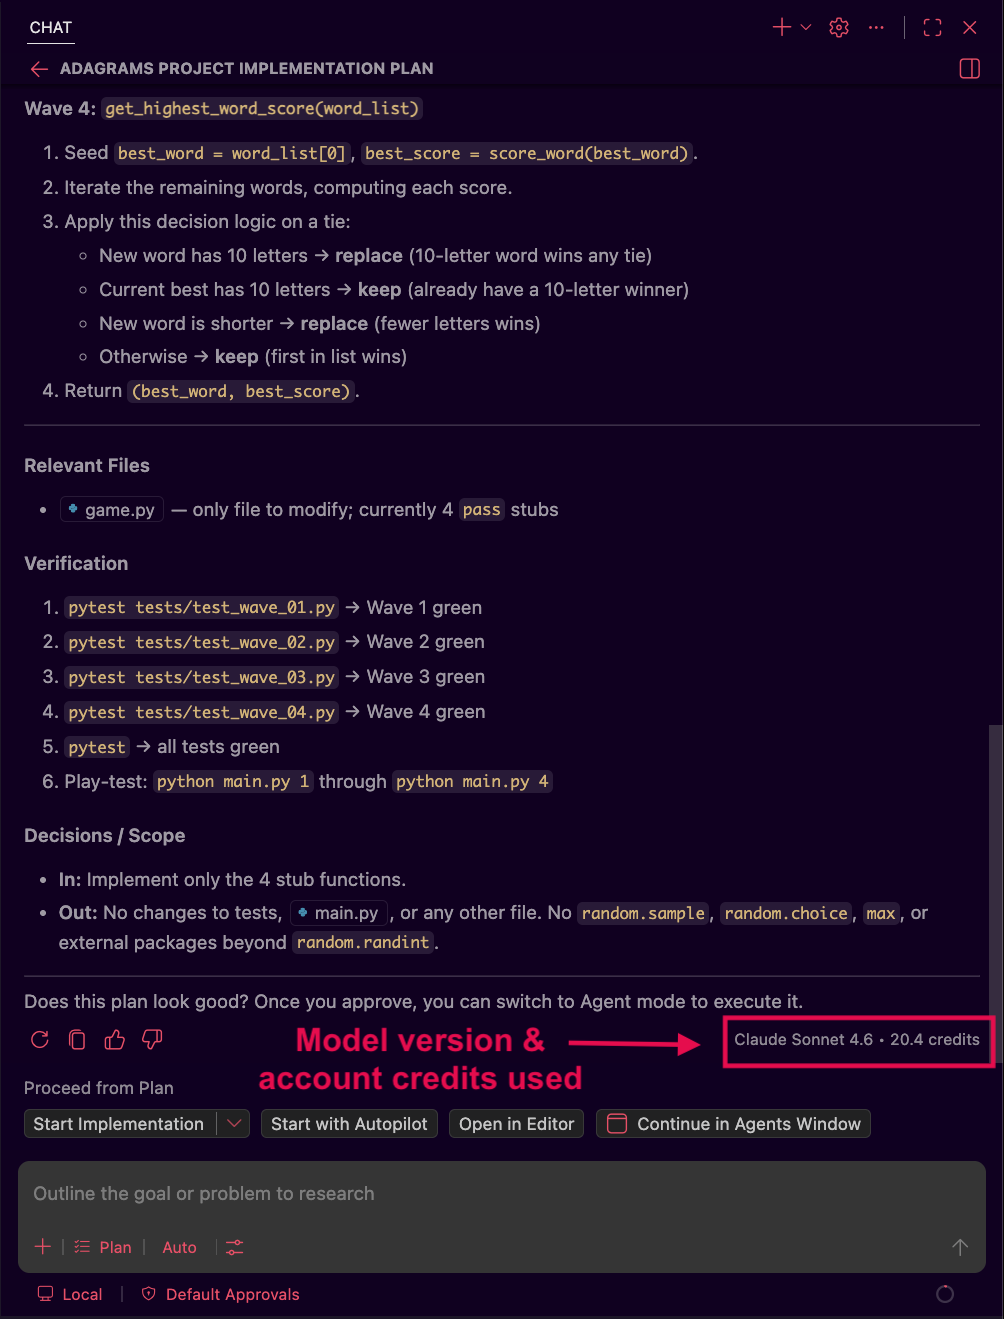
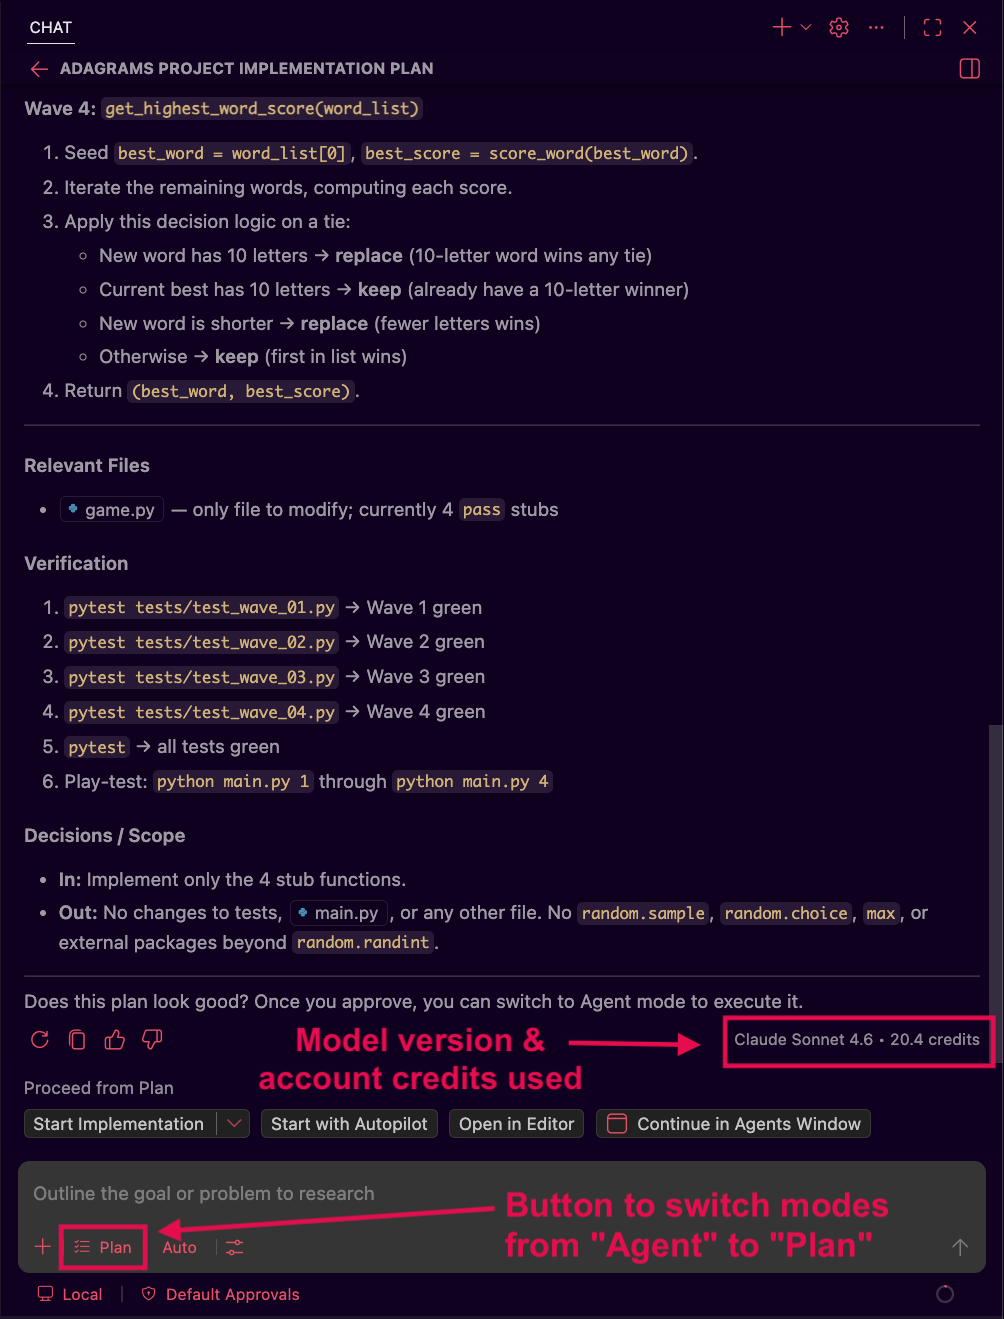
Address PR feedback to add clarifications and explicit human review in the example

Changed region(s): [[0.0309, 0.9014, 0.8954, 0.9636]]

diff --git a/agentic-coding/context-windows.md b/agentic-coding/context-windows.md
@@ -94,7 +94,9 @@ Most systems begin automatic compaction somewhere around 80–95% of the window'
 
 ### Context Window Usage Example
 
-How does this context usage look in a standard workflow? Let's say that we want to use Copilot AI agents in VS Code to help us complete the [Adagrams project](https://github.com/AdaGold/adagrams-py). If we open up the code locally, start off a new agent session in planning mode, then send a prompt like:
+How does this context usage look in a standard workflow? Let's look at a familiar example before trying it out ourselves: say that we want to use Copilot AI agents in VS Code to help us complete the [Adagrams project](https://github.com/AdaGold/adagrams-py). 
+
+The first thing we'll do is open up the code locally, start a new agent session, and set the session to planning mode using the mode switcher at the bottom of the chat text box (see the "mode" button highlighted in the image below). If we then send a prompt like:
 
 > Help me create a structured approach to complete the Adagrams project. The requirements are outlined in 'README.md'. Only the file 'adagrams/game.py' is allowed to be changed to complete this project. 'adagrams/game.py' contains 4 function definitions that need to be fully implemented. These functions must pass the tests located in the 'tests' folder. The functions should follow PEP8 best practices for Python. Only the packages in the file 'requirements.txt' are allowed to be used for this project.
 
@@ -111,7 +113,9 @@ If we click on the session usage tracker at the bottom of the screen, we can see
 
 The model used for this planning session has a 1 million token context window size. The single request and response combined used up 21.9 thousand tokens of that total 1 million limit, and that's without any back and forth, no asking for explanation, requesting changes, etc. 
 
-If we use the "Start Implementation" button shown at the bottom of the chat window screenshot above, it will open a new agent session to begin implementing the outlined plan. In our run through, the implementation was started using a different model from planning, `GPT-5.3-Codex` which has a 400,000 token limit for its context window. After the initial implementation, we asked for 3 changes:
+Once we have reviewed and approved the plan, we can press the "Start Implementation" button shown at the bottom of the chat window screenshot above, it will open a new agent session to begin implementing the outlined plan. In our run through, the implementation was started using a different model from planning, `GPT-5.3-Codex` which has a 400,000 token limit for its context window. 
+
+After the initial implementation, we reviewed what was created and asked for 3 changes:
 1. create a venv and install requirements before trying to run pytest
 2. move constants to their own file and import them into `game.py`
 3. refactor the last function to reduce repetition and make the function easier to follow
@@ -128,9 +132,11 @@ Adagrams is a smaller scale project, we only altered two files, and only needed 
 
 ## Try it out!
 
-Using a project you're familiar with, ask an agent to help you create an implementation plan. 
-- Use the same steps above to examine the agent's context window usage. 
-- Ask a question or two and see how many tokens are used beyond the initial prompt.
+Using Adagrams or another project you're familiar with, start a new chat, set it to "Plan" mode, and ask an agent to help you create an implementation plan. 
+1. Use the same steps above to examine the agent's context window usage. 
+2. Ask a question or two and see how many tokens are used beyond the initial prompt.
+
+As always with AI, we will get a slightly different responses, even when working with the same project. One session might require more or less changes, at different steps in the process to get to an implemetation that meets our needs. You may also see different asks from the agent, like requests for clarifications or tool permisions that did not come up in our example.
 
 ### !end-callout
 
